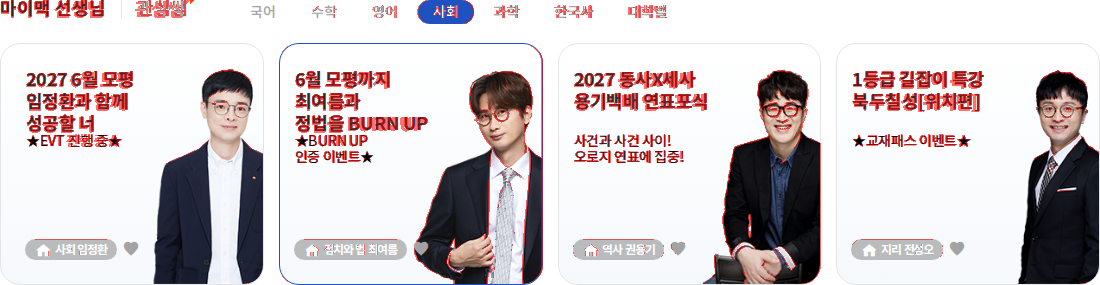
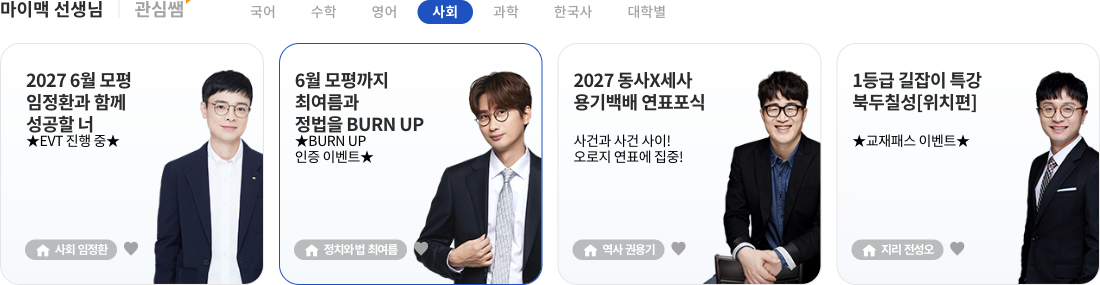
feat: 사회탐구 강사 3명 추가 + 시각 비교 오탐 제거
- sites.json: 최여름(정치와법)·권용기(역사)·전성오(지리) 최신소식·교재패스 배너 6항목 추가 (총 12개)
- watcher.py: 캡처 전 이미지 로딩 대기로 lazy-load 오탐 방지
- visual_diff: erosion으로 흩어진 잡음 픽셀 제거, 진짜 변경(이미지 교체)만 감지
- is_changed 시각 임계값 0.4%→1% 상향

diff --git a/watcher.py b/watcher.py
@@ -5,7 +5,7 @@
 """
 import re
 import difflib
-from PIL import Image, ImageChops
+from PIL import Image, ImageChops, ImageFilter
 
 
 def _stop_swipers(page):
@@ -59,6 +59,19 @@ def _click_subject(page, subject, anchor):
         except Exception:
             continue
     return False
+
+
+def _wait_for_images(page, timeout=6000):
+    """화면에 보이는 이미지가 모두 로드될 때까지 대기(지연 로딩으로 인한 오탐 방지)."""
+    try:
+        page.evaluate("""() => Promise.all(
+            [...document.images]
+                .filter(img => img.getBoundingClientRect().width > 0 && !img.complete)
+                .map(img => new Promise(res => { img.onload = img.onerror = res; }))
+        )""", timeout=timeout)
+    except Exception:
+        pass
+    page.wait_for_timeout(500)
 
 
 def _neutralize(page, ignore_selectors, freeze):
@@ -163,11 +176,13 @@ def capture(url, out_png, subject=None, section_anchor=None, full_page=False,
         if region is not None:
             try:
                 region.scroll_into_view_if_needed(timeout=4000)
+                _wait_for_images(page)  # 지연 로딩 이미지가 다 뜬 뒤 캡처
                 region.screenshot(path=out_png)
                 text = region.inner_text()
             except Exception:
                 region = None
         if region is None:
+            _wait_for_images(page)
             page.screenshot(path=out_png, full_page=full_page)
             try:
                 text = page.inner_text("body")
@@ -210,15 +225,19 @@ def visual_diff(old_png: str, new_png: str, out_png: str, threshold: int = 30):
     A = Image.new("RGB", (W, H), (255, 255, 255)); A.paste(a, (0, 0))
     B = Image.new("RGB", (W, H), (255, 255, 255)); B.paste(b, (0, 0))
     mask = ImageChops.difference(A, B).convert("L").point(lambda x: 255 if x > threshold else 0)
-    hist = mask.histogram()
+    # 잡음 제거: 흩어진 1~2px 차이(안티앨리어싱·렌더링·로딩 잔여)는 erosion으로 걸러냄.
+    # 진짜 변경(이미지 교체 등 큰 덩어리)은 살아남고, 고립된 잡음만 0이 된다.
+    denoised = mask.filter(ImageFilter.MinFilter(3))
+    hist = denoised.histogram()
     ratio = (hist[255] if len(hist) > 255 else 0) / float(W * H)
+    # 빨강 강조는 잡음 제거된 마스크 기준(실제 변경만 표시)
     red = Image.new("RGB", (W, H), (255, 0, 0))
-    blended = Image.blend(B, Image.composite(red, B, mask), 0.55)
+    blended = Image.blend(B, Image.composite(red, B, denoised), 0.55)
     blended.save(out_png)
     return ratio, out_png
 
 
-def is_changed(added, removed, ratio, visual_thresh=0.004) -> bool:
+def is_changed(added, removed, ratio, visual_thresh=0.01) -> bool:
     return bool(added) or bool(removed) or ratio > visual_thresh
 
 

diff --git a/data/reports/main_teachers_history/2026-06-01/report.md b/data/reports/main_teachers_history/2026-06-01/report.md
@@ -1,6 +1,6 @@
 # 메인 - 마이맥 선생님(한국사) · 2026-06-01
 
-**상태:** 🔴 변경 감지됨
-**화면 변화량:** 4.1%
+**상태:** 🟢 변경 없음
+**화면 변화량:** 0.0%
 
-⚠ 글자 변화는 없는데 화면이 4.1% 바뀌었습니다. 사진/이미지 교체 가능성이 있어요. 아래 '변경 영역(빨강)' 이미지를 확인하세요.
+특이 변경 없음.

diff --git a/data/reports/main_teachers_social/2026-06-01/report.md b/data/reports/main_teachers_social/2026-06-01/report.md
@@ -1,6 +1,6 @@
 # 메인 - 마이맥 선생님(사회) · 2026-06-01
 
-**상태:** 🔴 변경 감지됨
-**화면 변화량:** 6.5%
+**상태:** 🟢 변경 없음
+**화면 변화량:** 0.0%
 
-⚠ 글자 변화는 없는데 화면이 6.5% 바뀌었습니다. 사진/이미지 교체 가능성이 있어요. 아래 '변경 영역(빨강)' 이미지를 확인하세요.
+특이 변경 없음.

diff --git a/data/reports/tcher_choi_passbanner/2026-06-01/report.md b/data/reports/tcher_choi_passbanner/2026-06-01/report.md
@@ -1,4 +1,4 @@
-# 임정환(사회) - 최신소식 · 2026-06-01
+# 최여름(정치와 법) - 교재패스 배너 · 2026-06-01
 
 **상태:** 🟢 변경 없음
 **화면 변화량:** 0.0%

diff --git a/data/reports/tcher_choi_notice/2026-06-01/report.md b/data/reports/tcher_choi_notice/2026-06-01/report.md
@@ -1,4 +1,4 @@
-# 임정환(사회) - 최신소식 · 2026-06-01
+# 최여름(정치와 법) - 최신소식 · 2026-06-01
 
 **상태:** 🟢 변경 없음
 **화면 변화량:** 0.0%

diff --git a/data/reports/tcher_jeon_passbanner/2026-06-01/report.md b/data/reports/tcher_jeon_passbanner/2026-06-01/report.md
@@ -1,4 +1,4 @@
-# 임정환(사회) - 최신소식 · 2026-06-01
+# 전성오(지리) - 교재패스 배너 · 2026-06-01
 
 **상태:** 🟢 변경 없음
 **화면 변화량:** 0.0%

diff --git a/data/reports/tcher_kwon_passbanner/2026-06-01/report.md b/data/reports/tcher_kwon_passbanner/2026-06-01/report.md
@@ -1,4 +1,4 @@
-# 임정환(사회) - 최신소식 · 2026-06-01
+# 권용기(역사) - 교재패스 배너 · 2026-06-01
 
 **상태:** 🟢 변경 없음
 **화면 변화량:** 0.0%

diff --git a/data/reports/main_banner_history/2026-06-01/report.md b/data/reports/main_banner_history/2026-06-01/report.md
@@ -1,6 +1,6 @@
 # 메인 - 이벤트배너(한국사) · 2026-06-01
 
 **상태:** 🟢 변경 없음
-**화면 변화량:** 0.3%
+**화면 변화량:** 0.0%
 
 특이 변경 없음.

diff --git a/data/reports/main_banner_social/2026-06-01/report.md b/data/reports/main_banner_social/2026-06-01/report.md
@@ -1,6 +1,6 @@
 # 메인 - 이벤트배너(사회) · 2026-06-01
 
 **상태:** 🟢 변경 없음
-**화면 변화량:** 0.3%
+**화면 변화량:** 0.0%
 
 특이 변경 없음.

diff --git a/data/reports/tcher_jeon_notice/2026-06-01/report.md b/data/reports/tcher_jeon_notice/2026-06-01/report.md
@@ -1,4 +1,4 @@
-# 임정환(사회) - 최신소식 · 2026-06-01
+# 전성오(지리) - 최신소식 · 2026-06-01
 
 **상태:** 🟢 변경 없음
 **화면 변화량:** 0.0%

diff --git a/data/reports/tcher_kwon_notice/2026-06-01/report.md b/data/reports/tcher_kwon_notice/2026-06-01/report.md
@@ -1,4 +1,4 @@
-# 임정환(사회) - 최신소식 · 2026-06-01
+# 권용기(역사) - 최신소식 · 2026-06-01
 
 **상태:** 🟢 변경 없음
 **화면 변화량:** 0.0%
